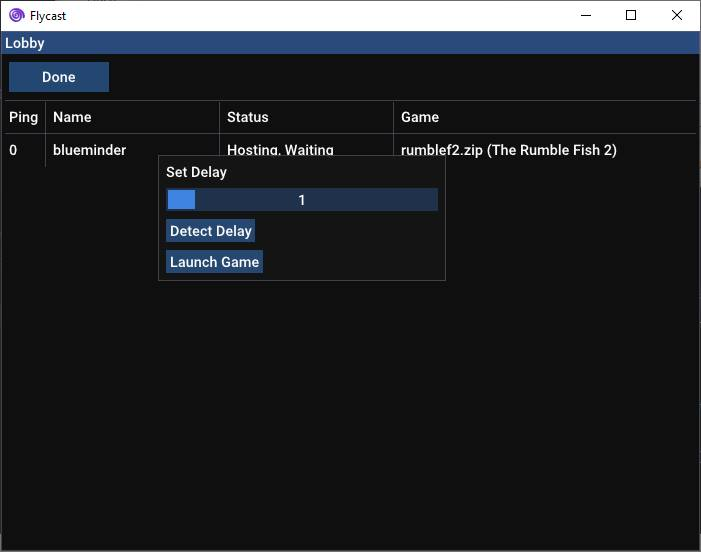
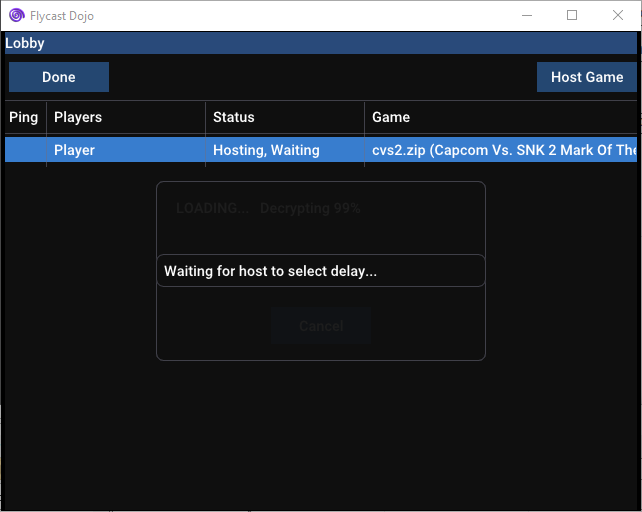
update README, lobby flow, replays

Changed region(s): [[0.0, 0.0, 1.0, 1.0], [0.6231, 0.4688, 0.6542, 0.5]]

diff --git a/README.md b/README.md
@@ -1,6 +1,6 @@
-flycast-dojo
+Flycast Dojo
 ===========
-**flycast-dojo** is a fork of [**flycast**](https://github.com/flyinghead/flycast), a multi-platform Sega Dreamcast, Naomi and Atomiswave emulator derived from [**reicast**](https://reicast.com/), with a focus on netplay features and replay. We intend to keep **flycast-dojo** updated with the latest downstream changes made to the parent project.
+**Flycast Dojo** is a fork of [**Flycast**](https://github.com/flyinghead/flycast), a multi-platform Sega Dreamcast, Naomi and Atomiswave emulator derived from [**Reicast**](https://reicast.com/), with a focus on netplay features and replay. We intend to keep **Flycast Dojo** updated with the latest downstream changes made to the parent project.
 
 General information about flycast configuration and supported features can be found on [**TheArcadeStriker's flycast wiki**](https://github.com/TheArcadeStriker/flycast-wiki/wiki)
 
@@ -24,11 +24,26 @@ If you are connected to your opponents on a shared LAN or are using software tha
 ![Host Game Selection](lobby2.png)
 > Host game selection menu with search filter
 
+#### Set Delay
+When a guest joins a session, delay will automatically be set on the host's side according to packet round trip time. Use the slider to adjust the game to your liking, and press "Start Game" to begin your session. To detect the delay again, possibly after adjustment, click on the "Detect Delay" button after entering your opponent's IP.
+
+Depending on the connection between you and your opponent and the tendency for network spikes, you may have to bump delay up to make your game smoother. The best course of action is to start low, and go higher until both you and your opponent have a smooth framerate.
+
+![Host Delay Selection](hostdelay.png)
+
 ### As Guest
-* Click on any entries with the status of "Hosting, Waiting" to launch a game with auto detected delay.
-* To set custom delay, right click on the entry and adjust accordingly. Click "Launch Game" to begin.
+* Click on any entries with the status of "Hosting, Waiting" to launch a game. The game will load, and the session will start once the host has selected delay.
 
 ![Lobby - Entry Select](lobby3.png)
+
+# Replays
+To see a listing of your recorded replay sessions to play back, click on the "Replays" button on the Flycast main screen.
+
+To record your netplay sessions, just check the box that says "Record All Sessions". This will create a new replay file for each netplay session you run and will be saved in the `replays/` subdirectory.
+
+To play the replay file, just click on the corresponding entry, and the replay data will played back in its corresponding game.
+
+![Replay](replay1.png)
 
 ## Manual Operation
 
@@ -37,9 +52,7 @@ If you are hosting and do not wish to use the lobby system, you can enter your s
 
 If you are a guest, make sure that "Act As Server" is not checked and that you have entered the matching IP address and port of your opponent in the "Server" column.
 
-### Set Delay
-To automatically set delay, click on the "Detect Delay" button after entering your opponent's IP. There's also a slider for manually setting delay if you run into any issues.
-
+#### Manual Delay Calculation
 To calculate delay, we would use the following formula:
 
 `Ceiling( Ping / 2 * FrameDuration (16 ms) ) = Delay #`
@@ -53,28 +66,30 @@ For instance, if my opponent’s average ping is 42 ms, I would divide it by 32 
 = 2
 ```
 
-Make sure both you and your opponent have the same delay and game ROM to begin your game.
-
 ### Launch Game
 On the Flycast main screen, you may now select your game of choice. You may also filter your list of games by typing in the text box on the top of the screen.
 
 If you are hosting, you must start the game first, then have your opponent join afterward. If you are joining someone else's game, you must wait for them to start first. Be sure that you and your opponent have the same files before starting your session. These would include your ROM files, as well at your `eeprom.net`/`nvmem.net` files found in your `data/` subdirectory.
 
-# Replays
-To record your netplay sessions, just check the box that says "Record All Sessions". This will create a new replay file for each netplay session you run and will be saved in the `replays/` subdirectory.
-
-To play the replay file, be sure to uncheck "Record All Sessions" and enable "Playback Local Replay File". The file representing your last session is automatically populated in the "Replay Filename" column by default.
-
-![Replay](replay1.png)
 
 # Command Line
 You may also call Flycast from the command line. All command line flags correspond with the options found in `emu.cfg`. Here are some example calls:
 
 ## Server
-```flycast.exe -config maplenet:Enable -config maplenet:ActAsServer=yes -config maplenet:ServerPort=7777 -config maplenet:Delay=1 C:\emu\flycast\games\dc\ControllerTest-DJ.cdi```
+```flycast.exe -config maplenet:Enable -config maplenet:ActAsServer=yes -config maplenet:ServerPort=6000 ControllerTest-DJ.cdi```
 
 ## Client
-```flycast.exe -config maplenet:Enable -config maplenet:ActAsServer=no -config maplenet:ServerIP=127.0.0.1 -config maplenet:ServerPort=7777 -config maplenet:Delay=1 C:\emu\flycast\games\dc\ControllerTest-DJ.cdi```
+```flycast.exe -config maplenet:Enable -config maplenet:ActAsServer=no -config maplenet:ServerIP=127.0.0.1 -config maplenet:ServerPort=6000 ControllerTest-DJ.cdi```
+
+## TCP Match Transmission (Spectating)
+_append to server arguments_
+```-config maplenet:Transmitting=yes -config maplenet:Receiving=no -config maplenet:SpectatorIP=<IP> -config maplenet:SpectatorPort=7000```
+
+## TCP Match Receiving (Spectating)
+```-config maplenet:Transmitting=no -config maplenet:Receiving=yes -config maplenet:SpectatorPort=7000```
+
+## Test Game Screen
+```-config maplenet:TestGame=yes```
 
 # Video Demos
 ## Flycast Netplay Testing - Capcom vs SNK 2 (NAOMI) VS
@@ -85,9 +100,10 @@ You may also call Flycast from the command line. All command line flags correspo
 
 # Roadmap
 - [x] UDP Delay Netplay
-- [x] Network Match Streaming
+- [x] UDP Spectating
 - [x] Session Replays
 - [x] LAN Lobbies
+- [x] TCP Spectating
 - [ ] Linux Support (Partially Implemented)
 - [ ] Offline Game Recording
 - [ ] Offline Game Delay (Practice)
